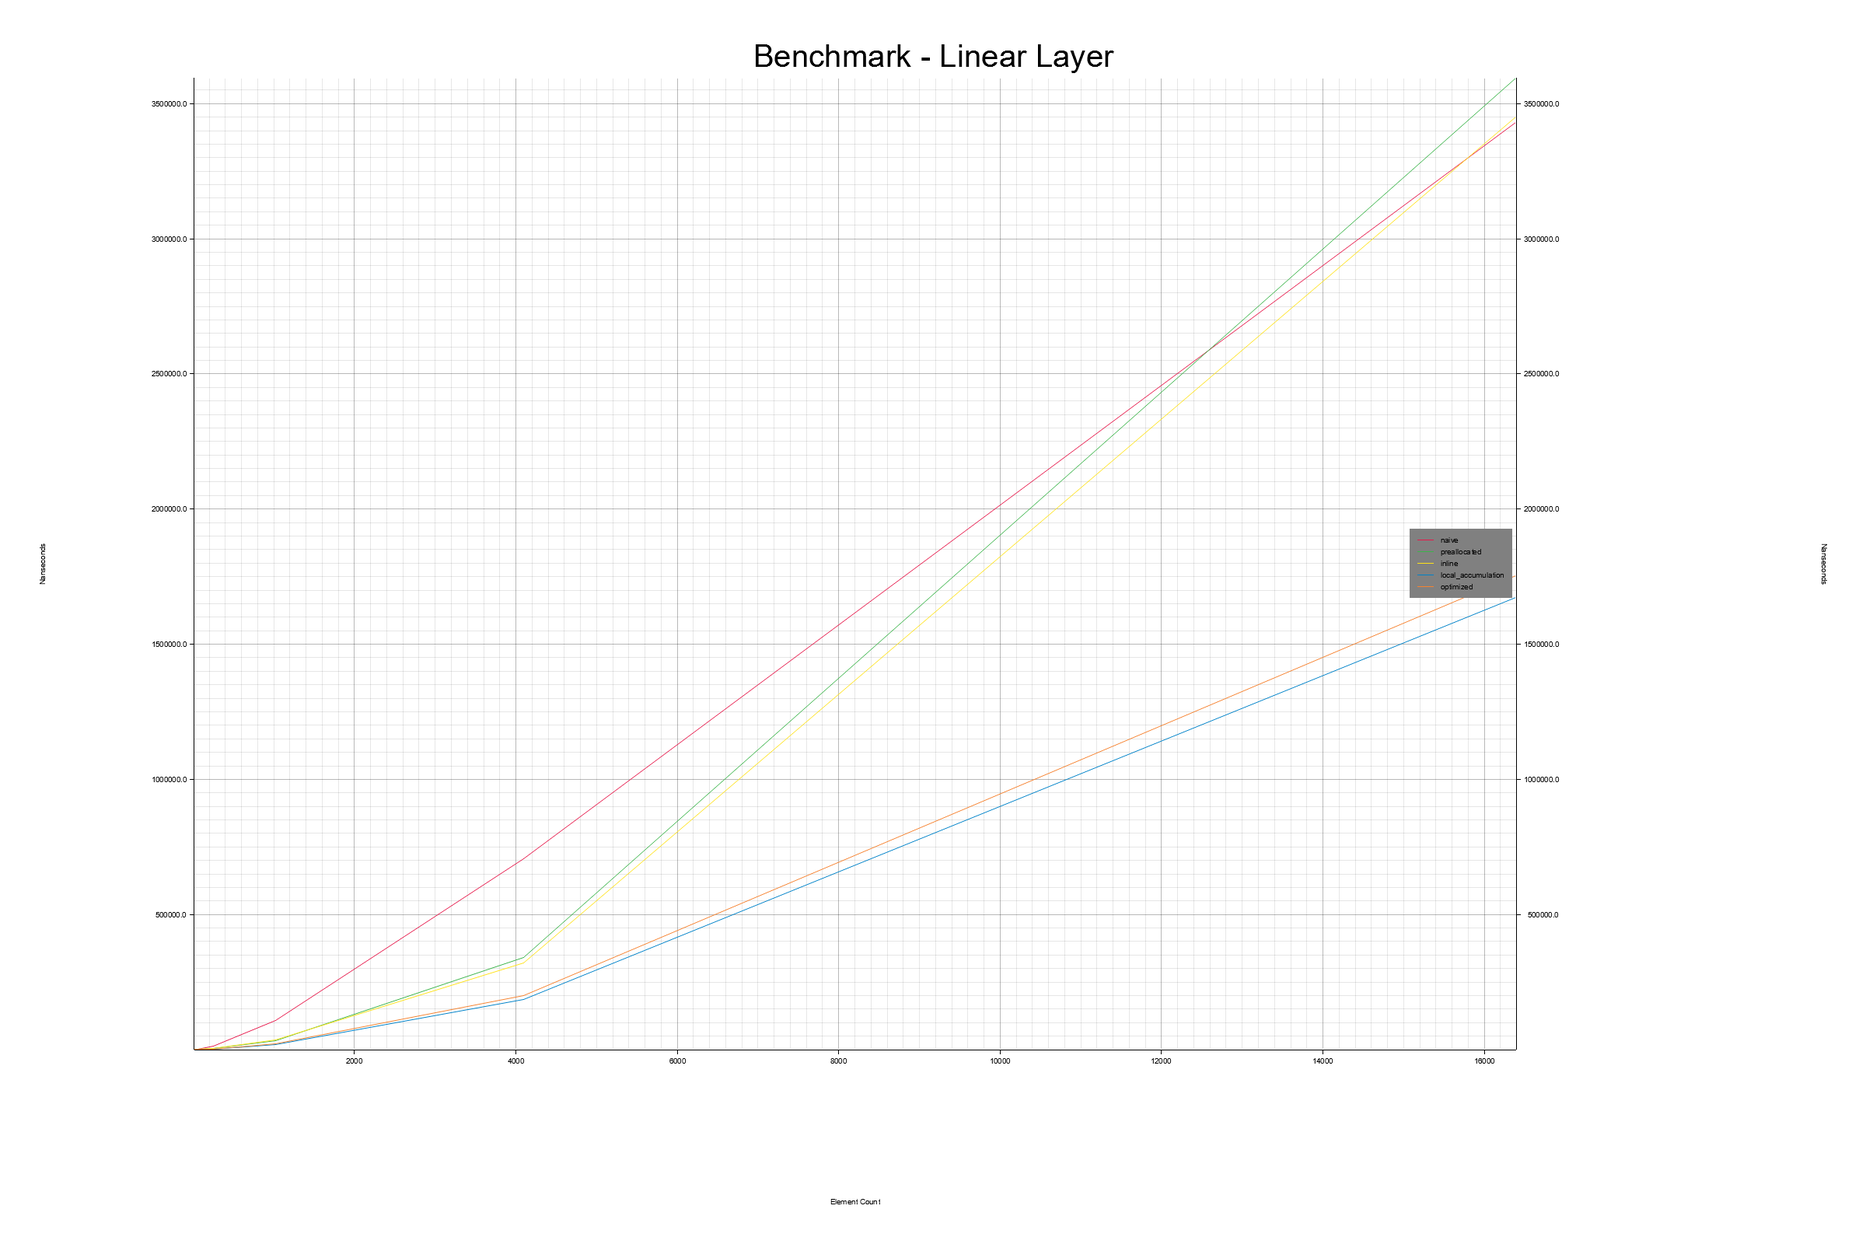
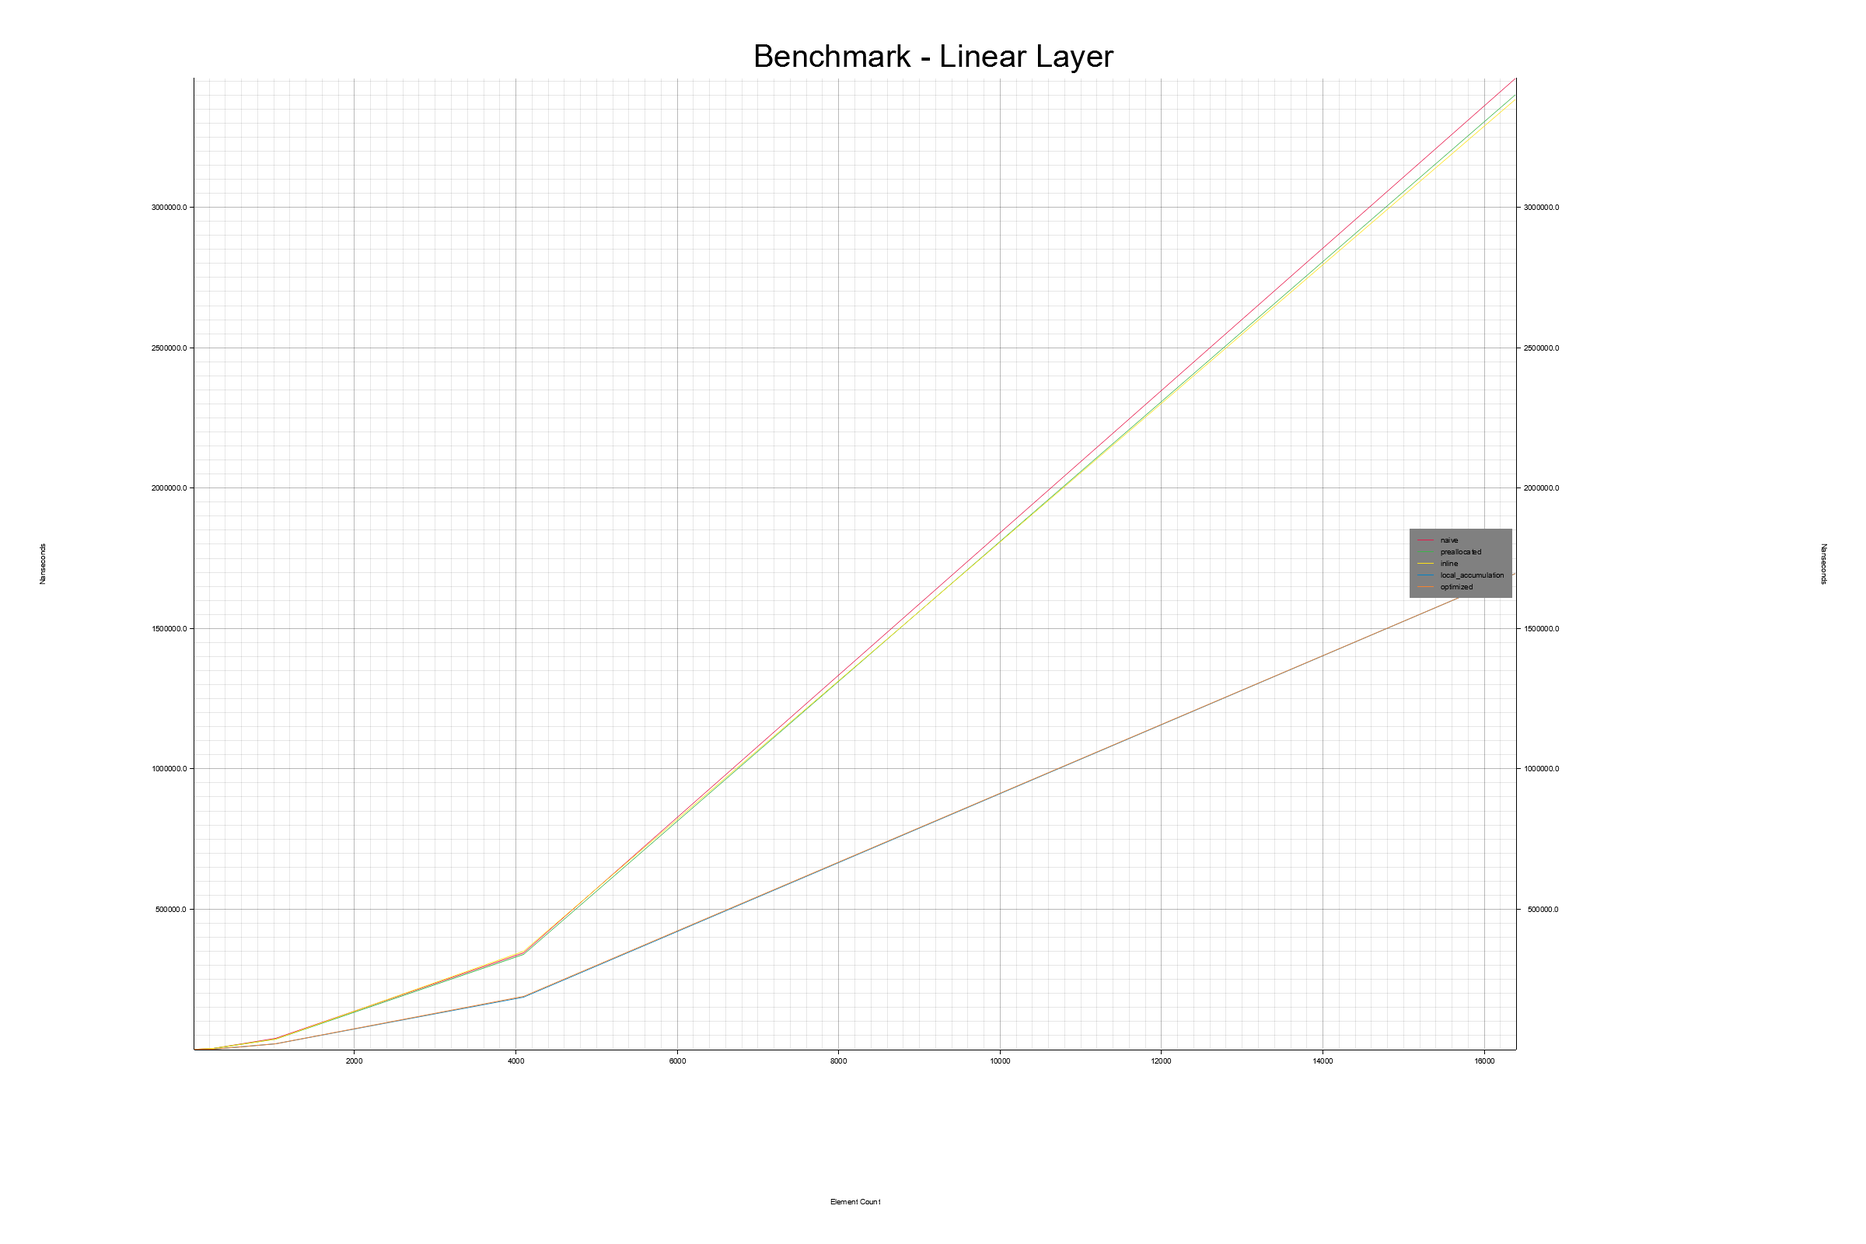
Immediate mode on the GPU and updated benchmarks with 1000 iterations

Changed region(s): [[0.0938, 0.0625, 0.8438, 0.5625], [0.0938, 0.5625, 0.8125, 0.8438]]

diff --git a/m1_memory_hierarchies/code/computational_graphs/src/lib.rs b/m1_memory_hierarchies/code/computational_graphs/src/lib.rs
@@ -22,7 +22,7 @@ pub async fn run() {
     // If not wgpu compatible, then alert the user
     let debug_level: u32 = 4;
     let run_performance_benchmark: bool = true;
-    let loop_count: usize = 10;
+    let loop_count: usize = 10000;
     let loop_range: Vec<usize> = (2u32..8u32).map(|x| 2usize.pow(x)).collect();
     let log_scale: bool = false;
     let compatible_gpu_found: bool = pollster::block_on(gpu_utilities::self_test());

diff --git a/m1_memory_hierarchies/code/computational_graphs/src/immediate/runner.rs b/m1_memory_hierarchies/code/computational_graphs/src/immediate/runner.rs
@@ -347,7 +347,7 @@ fn linear_relu_softmax_fused_benchmark(config: &Configuration, gpu_handles: &GPU
     let names: Vec<String> = vec![
         "linear_relu_softmax".to_string(),
         "linearrelu_softmax".to_string(),
-        "linear_relu_softmax_fused".to_string(),
+        "linearrelusoftmax".to_string(),
     ];
 
     let functions: Vec<fn(&GPUHandles, &mut Tensor2D, &Tensor2D, &Tensor2D, &mut Tensor2D)> = vec![

diff --git a/m1_memory_hierarchies/s3_immediate_gpu_computation.md b/m1_memory_hierarchies/s3_immediate_gpu_computation.md
@@ -1,9 +1,176 @@
 # 2⃣ Immediate GPU computation
+Now let's look at speeding up our operators with GPU, after this
+we will take a look at building an actual computational graph, both
+on the CPU and the GPU.
 
-## Building the first compute node
+The first version of our GPU implementation, will be for immediate mode computation.
+In this version the behavior will be treated a bit like executing a Python script.
+Every command will be processed one at a time, no optimizations can be executed outside
+of a single operation, and all data has to be ready for a new and completely different
+operation to be executed afterwards. The result of this being that if the system
+is told to execute a linear operator on some data, it will compile the code needed
+to run on the GPU, allocate all necessary buffers on the GPU, transfer the needed data,
+execute the operation, synchronize with CPU and then transfer back all of the necessary
+data to the CPU. If that linear operator is then followed by a ReLU operator, it will
+have to do the whole thing over again. Compile the ReLU code for the GPU,
+allocate buffers, transfer, execute, transfer back. Then possibly deallocate.
 
-## Building the remaining compute nodes
+This is not a good way to accomplish this. But it is highly flexible and
+we're gonna do it anyways! Don't worry about the 'how' too much, level 3
+goes into greater detail.
 
-## Testing the whole thing in immediate mode
+## Building the Linear Node
+Okay, so let's try building the linear operator again, but this time on
+the GPU! Don't worry too much about the particulars. The setup is quite
+a bit like what is described in the level 3 section of m1::s2.
 
-## 3⃣ Caching shaders
+There are three central files for this. ```src::shared::tensor2d_gpu.rs```,
+```src::shared::shaders::linear_layer.wgsl``` and ```src::immediate::nodes.rs```.
+If you don't have them locally you can them
+[here](https://github.com/absorensen/the-real-timers-guide-to-the-computational-galaxy/blob/main/m1_memory_hierarchies/code/computational_graphs/src/shared/tensor2d_gpu.rs),
+[here](https://github.com/absorensen/the-real-timers-guide-to-the-computational-galaxy/blob/main/m1_memory_hierarchies/code/computational_graphs/src/shared/shaders/linear_layer.wgsl) and
+[here](https://github.com/absorensen/the-real-timers-guide-to-the-computational-galaxy/blob/main/m1_memory_hierarchies/code/computational_graphs/src/immediate/nodes.rs)
+respectively.
+
+First of all, let's go directly to the shader (GPU) code in ```linear_layer.wgsl```.
+The version of the two functions we are interested in is ```main```.
+At the top there is a struct called ```TensorDimensions```, it is
+bound as something called a ```uniform```. The ```uniform``` is a struct,
+it can also just be a single value, which is readonly for the duration of our shader.
+As such all threads can safely keep it entirely in their registers or in whichever
+cache they have room without fear of the data becoming outdated. It also
+means that each thread will be accessing the same data, and not just overlapping
+data. But let's stay with the definition. We now have the ```group```, which is 0.
+A binding group is a set of bindings. There are a limited amount of binding slots
+available so you could have one set of buffers bound for group 0 and another set
+of buffers bound for group 1. In the ```var``` declaration, you declare how the
+bound data is used. Uniform is what I just wrote, you don't need to specify whether
+it is ```read``` or ```read_write```, it is always just ```read```. For the more
+general ```storage```, which is your normal more flexible buffer, you can specify
+whether it is ```read``` or ```read_write```. Whether there is a performance impact
+for one or the other might depend on your system, but the ```wgsl``` compiler is
+likely to complain if you declare ```var<storage, read_write>``` without actually
+writing to it. That's not just a performance thing, that is also good software
+engineering. Don't give stuff more rights than it needs to. That allows
+the compiler to give you helpful reminders that, at the very least writing
+to this buffer wasn't your original declared intention.
+We have several instances of ```array<f32>``` which is the raw data from our
+```Tensor2D```s. You can reconstruct the entire ```Tensor2D``` by combining
+this data with the dimension sizes from the ```TensorDimension``` struct.
+
+So now we get to the code itself. For the matrix-matrix multiplication, the
+dimensionality of the problem lends itself to a two dimensional solution.
+So above the ```main``` function, which can be named anything by the way,
+we define that our work group will have a size of 8 on the x-axis and
+8 on the y-axis. This changes the way our threads individual ID's are
+computed. Don't worry about it!
+
+Then we define a number of built-in variables we would like to have
+access too, there are more available than we declare here.
+These are various ID's such as, what is this threads number inside
+this work group, which work group is this thread in, out of all threads
+which number thread is this thread, that sort of thing.
+These are ```vec3<u32>``` because we actually dispatch our GPU programs
+with three dimensional grids of threads. In the case where we only
+use a single dimension, such as a sum reduction shader where we don't
+care about dimensionality, we still launch it three dimensionally,
+we just set the two last dimensions to one and then ignore them from
+then on.
+
+Next, the thread will calculate the correspondence between its global
+ID and the element of the output matrix this specific thread will calculate.
+Then we check whether these specific indices are outside the valid range
+of indices, remember that we often launch more threads than we need.
+Then we calculate the linearized index in our one dimensional output array.
+We declare and initialize a local variable to hold our running result,
+which will hopefully ensure that we keep it in a register.
+Then we just loop through the input row and weight column, multiplying
+and adding, until we accumulate our result, add our bias and then
+store the result in the output tensor. Then we are done,
+and we collect our result.
+
+Given the immediate mode usage, we will always be paying for a full transfer
+to and from the GPU. This implementation of the linear operator is quite suboptimal, it has been
+left as an optional level 4 exercise to implement a more optimal version using tiling and shared memory.
+
+If I get the time, at some point I might put up a performance benchmark comparing it to the CPU, but I have
+one later on for the more complex case of handling arbitrary graphs, which is a bit more representative
+of the real use case. Just know that immediate mode is highly suboptimal.
+
+## Building ReLU
+We then implement ReLU, Softmax and the fused operators in the same way.
+ReLU you can just check out yourself in ```shaders::relu.wgsl``` or
+[online](https://github.com/absorensen/the-real-timers-guide-to-the-computational-galaxy/blob/main/m1_memory_hierarchies/code/computational_graphs/src/shared/shaders/relu.wgsl)
+along with an inline implementation in ```shaders::relu_inline.wgsl``` or
+[here](https://github.com/absorensen/the-real-timers-guide-to-the-computational-galaxy/blob/main/m1_memory_hierarchies/code/computational_graphs/src/shared/shaders/relu_inline.wgsl)
+.
+
+<figure markdown>
+![Image](../figures/relu_gpu_immediate.png){ width="800" }
+<figcaption>
+Benchmarking ReLU operators on the GPU. If there is no underscore between the operators they were fused.
+This benchmark was run on my laptop boasting an Intel i7-1185G7, 3.0 GHz with 32GB of RAM. The operating system was
+Windows 10. The L1/L2/L3 caches were 320 KB, 5 MB and 12 MB respectively.
+</figcaption>
+</figure>
+
+Interestingly, when done this way, the inline version is significantly slower than the normal, more functional,
+version.
+
+## Building Softmax
+Next up, we have the softmax operator. You will find the three shaders
+needed for the softmax operator in ```shaders::softmax.wgsl``` or
+[online](https://github.com/absorensen/the-real-timers-guide-to-the-computational-galaxy/blob/main/m1_memory_hierarchies/code/computational_graphs/src/shared/shaders/softmax.wgsl)
+.
+In this case, finding and communicating the maximum value and
+the sum is a lot more complicated on a GPU. The implementation
+provided is not even using all the possible threads, but just a
+single work group to make the code more readable. Implementing
+a tree reduction with iterative calls to max and sum shaders
+is left as an exercise at level 4. So you don't need to know
+what that is right now, just know that it is not just
+implemented suboptimally, but even without more than 32 threads.
+I did however cheat a little bit and use something called shared memory, to make it a bit faster.
+Don't worry about shared memory, I will introduce it at level 3.
+
+## Building Fused Operators
+Finally, the fused operators are basically implemented through doing
+a single transfer to and from, and calling the kernels and bindings
+in succession. This is done CPU-side and there are no unique shaders
+for them. Again, don't worry about the stuff happening CPU side.
+Just know that it is implemented slighty suboptimally, and
+these shaders aren't implemented optimally.
+
+The only really interesting of the performance benchmarks, as we don't have many different implementations of
+each operator is the fused ones.
+
+<figure markdown>
+![Image](../figures/linear_relu_softmax_fused_gpu_immediate.png){ width="800" }
+<figcaption>
+Benchmarking fused operators on the GPU. If there is no underscore between the operators they were fused.
+This benchmark was run on my laptop boasting an Intel i7-1185G7, 3.0 GHz with 32GB of RAM. The operating system was
+Windows 10. The L1/L2/L3 caches were 320 KB, 5 MB and 12 MB respectively.
+</figcaption>
+</figure>
+
+As you can see, using fused operators, especially when we are in immediate mode, save us a whole bunch of
+performance, having 2 transfers instead of 6 makes a big difference. The fully fused operator wins by a large
+margin. Now, let's start building some graphs!
+_________________
+
+## 3⃣ Setting up to Dispatch Multiple Shaders
+If you actually delve into how these immediate mode operators are implemented on the CPU side,
+go to ```src::immediate::nodes.rs```. The code is almost the exact same as in the ```add_gpu```
+example from ```m1::s2```, except now we will dispatch several shaders in a row, sharing
+data. Especially the softmax and fused operators will be significantly different on the
+CPU (host) side.
+
+## 3⃣ Caching Shaders
+One other thing that is fundamentally suboptimal about this, is that we compile the shaders
+for every operator, every time we use the operator. If you do lots of small matrix calls,
+this will incur a significant overhead. Shader compilation is expensive. What you could do
+instead is to cache your compiled shaders for reuse later on. This is done with the graph
+implementations, but it has been left as an optional level 4 exercise for you to implement
+this for immediate mode operations. This works just fine when you have 4-10 shaders to
+compile and keep track of, but what if you had in the 1000's of combinations? In that
+case you might need some form of cache eviction mechanism, such as LRU.

diff --git a/m1_memory_hierarchies/s1_computational_graphs.md b/m1_memory_hierarchies/s1_computational_graphs.md
@@ -209,9 +209,10 @@ Windows 10. The L1/L2/L3 caches were 320 KB, 5 MB and 12 MB respectively.
 </figcaption>
 </figure>
 
+Huh, it seems our loop fission didn't really matter in the grand scheme of things!
 The graph is quite high resolution to allow you to zoom in. The X-axis is the size of the tensors. Only NxN matrices
-are used. The Y-axis is time in nanoseconds averaged over 10 runs, which is a bit on the low side. Note the how the
-lines are piece-wise linear. There are two points where all of the lines get quite a bit slower and scale worse
+are used. The Y-axis is time in nanoseconds averaged over 1000 runs. Note how the
+lines are piecewise linear. There are two points where all of the lines get quite a bit slower and scale worse
 with the size of the tensors. Why do you think that is?
 
 You guessed it! You are seeing the size of the tensor becoming too big for the different caches! It looks like the
@@ -270,10 +271,11 @@ this huge difference?
 
 You guessed it! All of the other functions have either preallocated the output matrix, or do the
 operations inplace. Since the ReLU operation is so simple, it becomes easily dominated by allocation
-and memory costs. The difference between the preallocated version and the inplace version is neglible. It is
-still doing one read and one write after all. But we see the inline version absolutely dominating. First, we saw
-the allocation dominate, then the cost of the function call itself as it is apparently quite costly for this
-simple function. Go back and look at the how much was gained by inlining the much more complex linear operator
+and memory costs. The difference between the preallocated version and the inplace version is not as big, but
+still substantial enough to warrant the optimization. Inlining on the other hand didn't make a big difference
+in this case.
+It is still doing one read and one write after all. 
+Go back and look at the how much was gained by inlining the much more complex linear operator
 in the previous benchmark! Go on!
 
 Inplace operations are also available in PyTorch. The ReLU actually has a flag for the
@@ -307,9 +309,9 @@ Windows 10. The L1/L2/L3 caches were 320 KB, 5 MB and 12 MB respectively.
 </figcaption>
 </figure>
 
-As can be seen, the inplace and inline versions beat the naive and preallocated versions by an extremely wide margin.
-The different between the inplace and inline seems quite small, but the inplace version seems to consistently beat
-the inline version.
+As can be seen, the inplace and inline versions beat the naive and preallocated versions by an extremely wide
+margin. The different between the inplace and inline seems quite small, but the inplace version seems to
+consistently beat the inline version.
 
 ### Fused
 Finally, let's see what we can do with combining the operators with fusion! First take a look at the functions
@@ -338,8 +340,8 @@ Windows 10. The L1/L2/L3 caches were 320 KB, 5 MB and 12 MB respectively.
 As can be seen the naive version, which is just successive function calls to linear, ReLU and softmax operators
 is massively outperformed by the fused linear-relu-softmax operators, with the fissioned version with bias
 outside of the matrix-matrix loop winning out. Of course the linear-relu version are the fastest,
-as they don't do softmax, but between the two of them it is actually the one with bias in the matrix-matrix
-loop that seems to consistently win.
+as they don't do softmax, but between the two of them it is again the version without the bias calculation
+at the end of the matrix-matrix loop which wins ever so slightly.
 
 It's hard to make a general conclusion based on that, without going a lot deeper, but in any case,
 you should always test and measure! Now, you can either continue on reading the level 3 material

diff --git a/m1_memory_hierarchies/s2_intro_to_gpus.md b/m1_memory_hierarchies/s2_intro_to_gpus.md
@@ -30,6 +30,10 @@ Rust and a GPU API abstraction layer called [wgpu](https://wgpu.rs/). You don't 
 right now, but it means that you should be able to run all code, including GPU code, on your platform, even if
 it's made by Apple or AMD.
 
+In general, I will be using terminology specific to the compute part of the graphics API's and I will
+keep to ```wgpu``` and ```wgsl``` terminology. You might see significant differences in terminology
+if you follow up this guide with some ```CUDA``` programming.
+
 ## GPU Hardware
 First off, when dealing with the GPU, you will have to manipulate the GPU from the CPU with commands
 like "allocate this much memory", "transfer this memory from the CPU to GPU", "execute this shader/kernel" and
@@ -145,6 +149,8 @@ This makes for faster transfers, but probably slower overall computation. This h
 recently with most consumer grade GPU's having around 8 GB of memory and locally run neural networks
 like diffusion models easily being able to use more than that. A desktop GPU with more than 16GB of RAM would
 probably still outperform an integrated graphics card with 16GB of RAM available, but it would be very expensive.
+
+_________________
 
 ## 3⃣ Introducing wgpu and wgsl
 The guide will for all GPU purposes make use of the graphics library wgpu, but only the compute parts.

diff --git a/m1_memory_hierarchies/s7_exercises.md b/m1_memory_hierarchies/s7_exercises.md
@@ -12,6 +12,7 @@ Extend the computational graph with an inplace operation for the ReLU operator (
 
 The following list is sorted by expected complexity - do at least 1
 
+* Implement a shader cached version of the immediate mode GPU operators and add it to the benchmark
 * Implement a version of the linear layer functions which uses shared memory and tiling
 * Add reusable buffers to the computational graph system
 * Change the ```Tensor2DGPU``` to have switchable access details on its buffers. It should be able to

diff --git a/m1_memory_hierarchies/s5_computational_graph_compilers.md b/m1_memory_hierarchies/s5_computational_graph_compilers.md
@@ -4,15 +4,17 @@ Sum and Max functions wildly inefficient
 Currently allocating a staging buffer too much
 The graph-loop's amount of transfers are a bit off
 
+## Transfers
+
 ## Seeing the GPU memory hierarchy - caches, shared memory and RAM
 
 ## Graph compilers and OP codes
 
 ## Swapping operators for fused versions
 
-## Building a graph compiler
+## Building a Graph Compiler
 
-## Testing the graph compiler
+_________________
 
 ## 3⃣ Metaprogramming
 Programs are just strings!

diff --git a/m1_memory_hierarchies/s6_outro.md b/m1_memory_hierarchies/s6_outro.md
@@ -6,6 +6,8 @@ CPU, immediate, immediate with shader caching, computational graph and compiled 
 ## How does this relate to torch.compile?
 ## Where to go from here?
 
+_________________
+
 ## 5⃣ Further reading
 [Fun and hackable tensors in Rust](https://getcode.substack.com/p/fun-and-hackable-tensors-in-rust)  
 [Massively Parallel Fun with GPUs: Accelerating Tensors in Rust](https://getcode.substack.com/p/massively-parallel-fun-with-gpus)

diff --git a/m1_memory_hierarchies/s4_building_a_computational_graph.md b/m1_memory_hierarchies/s4_building_a_computational_graph.md
@@ -1,12 +1,7 @@
 # 2⃣ Building a Computational Graph
-
-## Seeing the CPU-GPU memory hierarchies
-
-## Transfers
+The CPU version of the graph
 
 ## Building a computational graph
-
-## Testing the computational graph
 
 _________________
 
